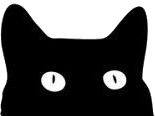
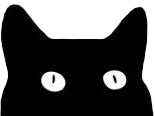
feat: update chat widget button and animations; replace cat2 image with cat image

diff --git a/app/globals.css b/app/globals.css
@@ -220,14 +220,29 @@ img {
     background: transparent;
     color: #fff;
     border: 0;
-    transform: scaleX(-1);
+    transform: scaleX(-1) translateY(0);
     width: 75px;
     position: fixed;
     bottom: -1;
     right: 16px;
     cursor: url(/images/cpointer.png) 4 4, pointer !important;
     z-index: 2000;
+    opacity: 1;
+    transition: opacity 200ms ease, transform 200ms ease;
+    pointer-events: auto;
     
+}
+
+.chat-toggle.is-hidden {
+    opacity: 0;
+    transform: scaleX(-1) translateY(8px);
+    pointer-events: none;
+}
+
+.chat-toggle.is-visible {
+    opacity: 1;
+    transform: scaleX(-1) translateY(0);
+    pointer-events: auto;
 }
 
 @keyframes chat-pop {

diff --git a/app/components/ChatWidget.tsx b/app/components/ChatWidget.tsx
@@ -174,14 +174,15 @@ export default function ChatWidget() {
         </div>
       )}
     </div>
-          {!isOpen && (
-        <button
-          onClick={handleChatOpen}
-          className="chat-toggle"
-        >
-          <img src="/images/cat2.png" alt="Chat" />
-        </button>
-      )}
+      <button
+        onClick={handleChatOpen}
+        className={`chat-toggle ${isOpen ? "is-hidden" : "is-visible"}`}
+        style={{ cursor: "url(/images/cpointer.png) 4 4, pointer" }}
+        aria-hidden={isOpen}
+        tabIndex={isOpen ? -1 : 0}
+      >
+        <img src="/images/cat.png" alt="Chat" />
+      </button>
     </>
   );
 }
